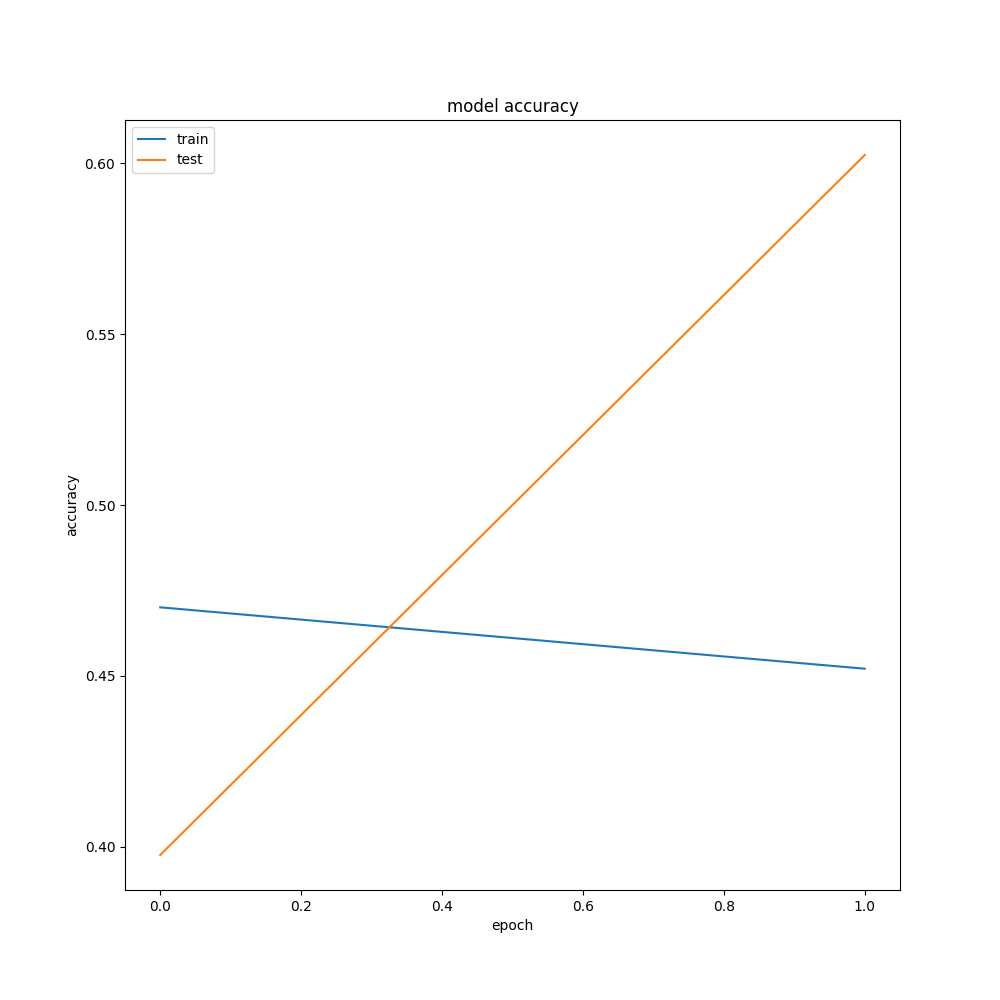
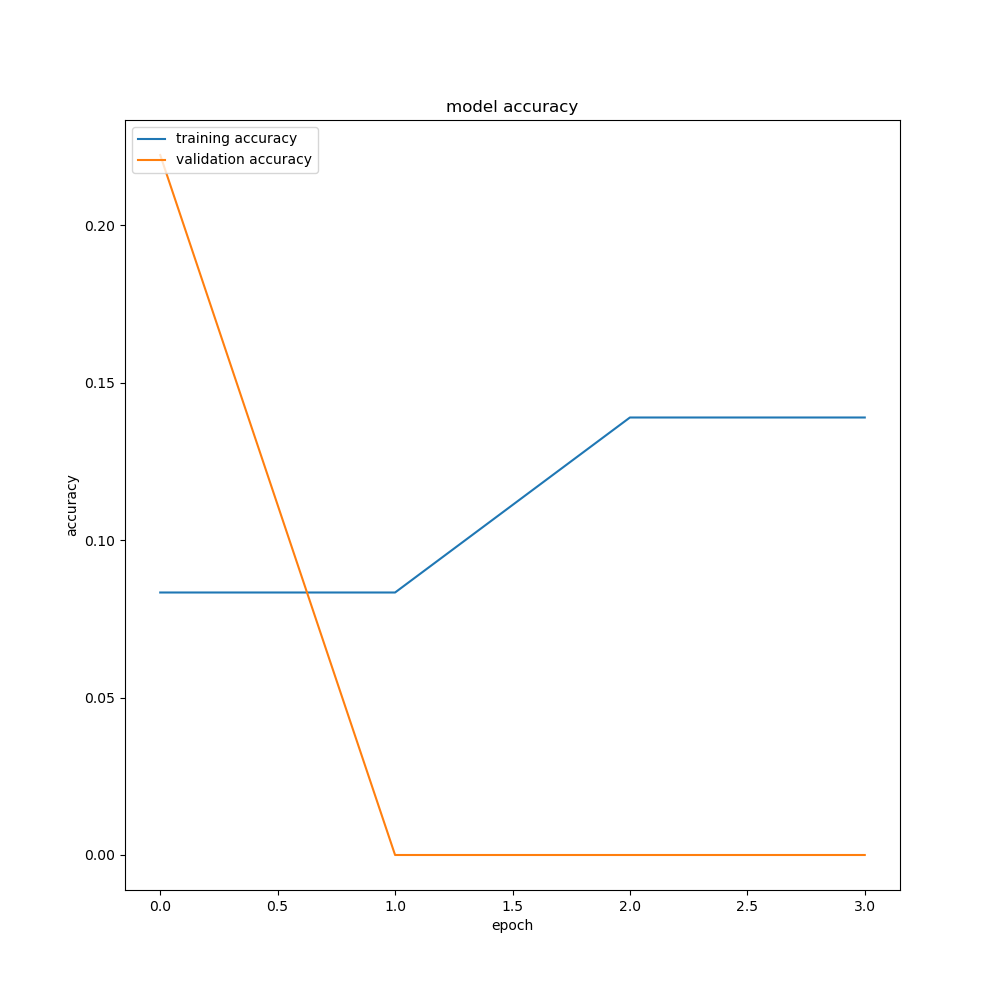
small dataset, grayscale images, 4 epocs

diff --git a/main.py b/main.py
@@ -31,11 +31,12 @@ train_ds, val_ds = tf.keras.utils.image_dataset_from_directory(
     seed=1337,
     image_size=image_size,
     batch_size=batch_size,
+    color_mode="grayscale",
 )
 
-for images, labels in train_ds.take(1):
-    print (labels)
-    print (images)
+# for images, labels in train_ds.take(1):
+#     print (labels)
+#     print (images)
 
 print("training stuff defined")
 print("class names are ", train_ds.class_names)
@@ -44,7 +45,7 @@ print (len(train_ds), "train samples")
 print (len(val_ds), "test samples")
 
 model = Sequential()
-model.add(Conv2D(32, (3, 3), padding="same", activation="relu", input_shape = (imagewidth, imageheight, 3)))
+model.add(Conv2D(32, (3, 3), padding="same", activation="relu", input_shape = (imagewidth, imageheight, 1)))
 model.add(Conv2D(32, (3, 3), padding="same", activation="relu"))
 model.add(MaxPooling2D(pool_size=(2, 2)))
 model.add(Conv2D(32, (3, 3), padding="same", activation="relu"))
@@ -53,7 +54,7 @@ model.add(MaxPooling2D(pool_size=(2, 2)))
 model.add(Dense(64, activation="relu"))
 model.add(Flatten())
 model.add(Dense(32, activation="relu"))
-model.add(Dense(3,  activation = 'softmax'))
+model.add(Dense(constants.classesCount,  activation = 'softmax'))
 model.summary()
 print("model layers defined")
 optimizer = keras.optimizers.Adam(learning_rate=0.01)
@@ -61,29 +62,35 @@ print("model layers optimizer defined")
 model.compile(optimizer, loss='categorical_crossentropy', metrics=['accuracy']) #change to categorical_crossentropy
 print("model successfully complied")
 
-m = model.fit(train_ds, batch_size = 3, epochs = 2, verbose = 1, validation_data = val_ds)
+m = model.fit(train_ds, batch_size = 3, epochs = 4, verbose = 1, validation_data = val_ds)
 
 # #TODO: make sure input shape is correct
 if not os.path.exists("results"):
     os.makedirs("results")
 
 print("model fit completed")
+plt.figure(1)
 plt.plot(m.history['accuracy'])
 plt.plot(m.history['val_accuracy'])
 plt.title('model accuracy')
 plt.ylabel('accuracy')
 plt.xlabel('epoch')
-plt.legend(['train', 'test'], loc='upper left')
+plt.legend(['training accuracy', 'validation accuracy'], loc='upper left')
 plt.savefig("results/accuracy.png")
 
+# print the m history files
+print(m.history)
+
 # summarize history for loss
+plt.figure(2)
 plt.plot(m.history['loss'])
 plt.plot(m.history['val_loss'])
 plt.title('model loss')
 plt.ylabel('loss')
 plt.xlabel('epoch')
-plt.legend(['train', 'test'], loc='upper left')
+plt.legend(['training loss', 'validation loss'], loc='upper left')
 # write the plt to a results folder
 # make the results folder if needed
 plt.savefig("results/loss.png")
+
 print("hello pippin")

diff --git a/constants.py b/constants.py
@@ -4,10 +4,13 @@ import tensorflow as tf
 
 
 fileCount = 0
+classesCount = 0
+
 for folder in os.listdir("final_spectrograms"):
     # skip any file that is not a folder
     if not os.path.isdir("final_spectrograms/" + folder):
         continue
+    classesCount += 1
     for file in os.listdir("final_spectrograms/" + folder):
         # skip any file that is not a png
         if not file.endswith(".png"):
@@ -26,6 +29,7 @@ train_ds = tf.keras.utils.image_dataset_from_directory(
     seed=1337,
     image_size=image_size,
     batch_size=batch_size,
+    color_mode="grayscale",
 )
 
 val_ds = tf.keras.utils.image_dataset_from_directory(
@@ -35,6 +39,7 @@ val_ds = tf.keras.utils.image_dataset_from_directory(
     seed=1337,
     image_size=image_size,
     batch_size=batch_size,
+    color_mode="grayscale",
 )
 
 # print ("test data: ")

diff --git a/small_dataset.py b/small_dataset.py
@@ -1,0 +1,14 @@
+import os
+
+for folder in os.listdir("final_spectrograms"):
+    # skip any file that is not a folder
+    if not os.path.isdir("final_spectrograms/" + folder):
+        continue
+    # get the list of files in the current folder
+    files = os.listdir("final_spectrograms/" + folder)
+    # if there are more than 10 files in the folder
+    if len(files) > 5:
+        for i in range(len(files) - 5):
+            # delete the file
+            os.remove("final_spectrograms/" + folder + "/" + files[i])
+            print ("deleted: ", "final_spectrograms/" + folder + "/" + files[i])
